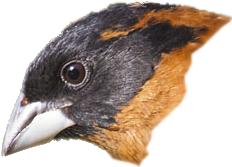
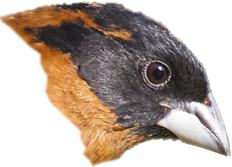
Correciónes a cabezas de pajaros

diff --git a/index.html b/index.html
@@ -61,9 +61,9 @@
                     <img class='imgPortadaCabanas' src="./recursos/inicio/portadaCab2.png">
                     <div class = 'seccionDetalles'>
                         <div class = 'nombreDeCabanas'>
-                            <img class = 'cabezaDePajaro' src="./recursos/inicio/cabezaMyadestes.png" alt="">
+                            <img class = 'cabezaDePajaro' src="./recursos/inicio/cabezaOccidentalis.png" alt="">
                             <h2>Cabaña<br>Occidentalis</h2>
-                            <img class = 'cabezaDePajaro cabezaDePajaroEspejo' src="./recursos/inicio/cabezaMyadestes.png" alt="">
+                            <img class = 'cabezaDePajaro cabezaDePajaroEspejo' src="./recursos/inicio/cabezaOccidentalis.png" alt="">
                         </div>
                         <h3>La tranquilidad es optima, bastante acogedora para segurar un buen decanso</h3>
                         <table>
